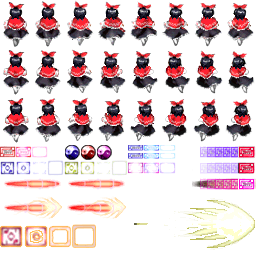
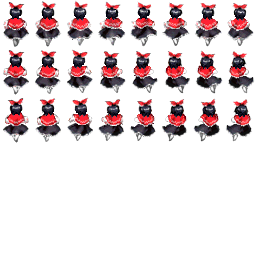
Cleaned the sprite

diff --git a/WinterReimu/files.js b/WinterReimu/files.js
@@ -1,4 +1,4 @@
 {
 	"patch.js": 155783108,
-	"th18/player/pl00/pl00.png": 2275972067
+	"th18/player/pl00/pl00.png": 4081826414
 }
